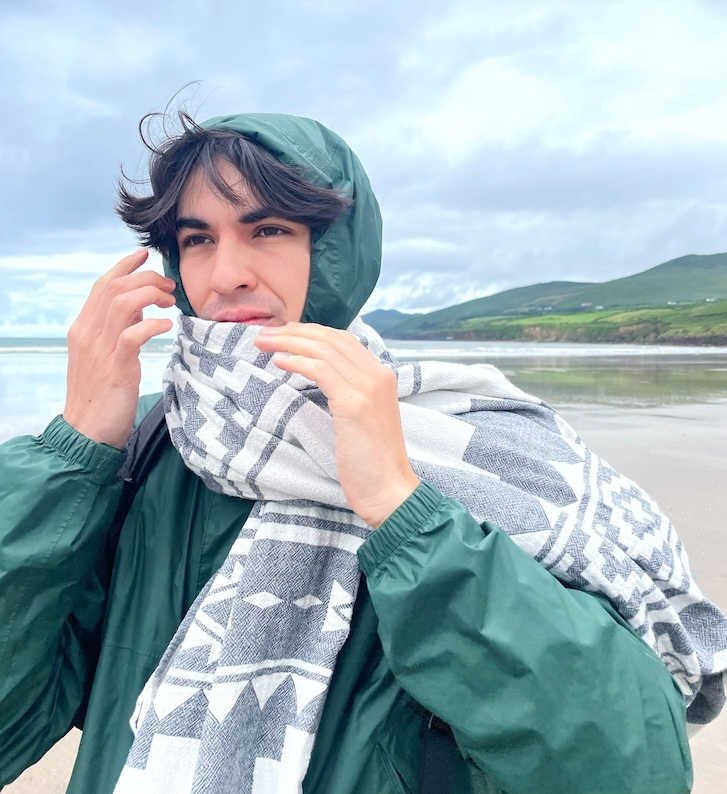
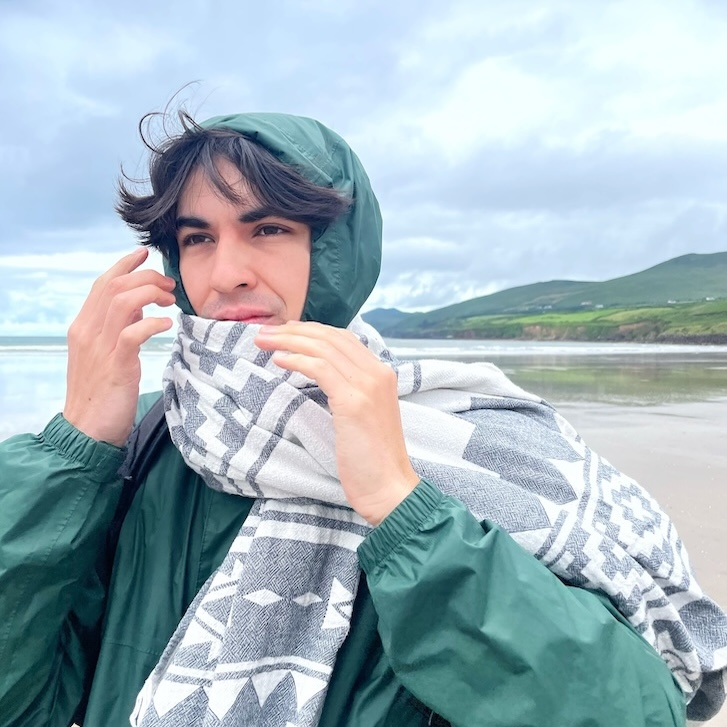
refactor: make profile image a square

diff --git a/src/routes/+page.svelte b/src/routes/+page.svelte
@@ -12,7 +12,7 @@
 		<img
 			src={asset('/profile.jpg')}
 			alt="Profile Picture"
-			class="inline-block w-60 rounded-3xl shadow-lg"
+			class="inline-block size-60 rounded-3xl shadow-lg"
 		/>
 		<div></div>
 	</div>
